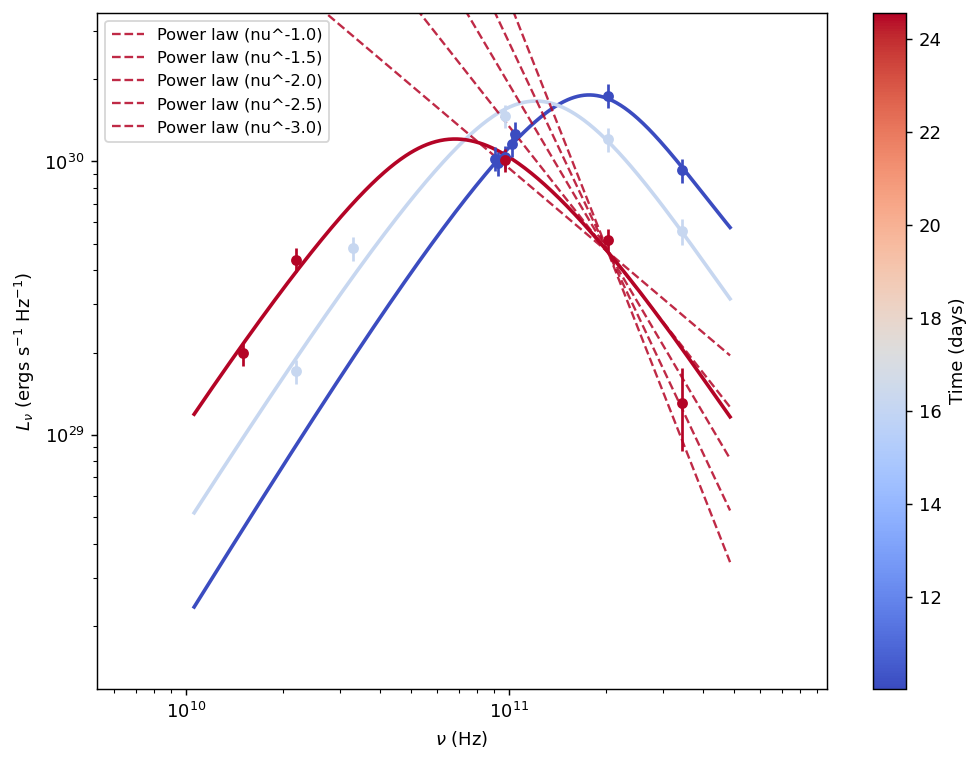
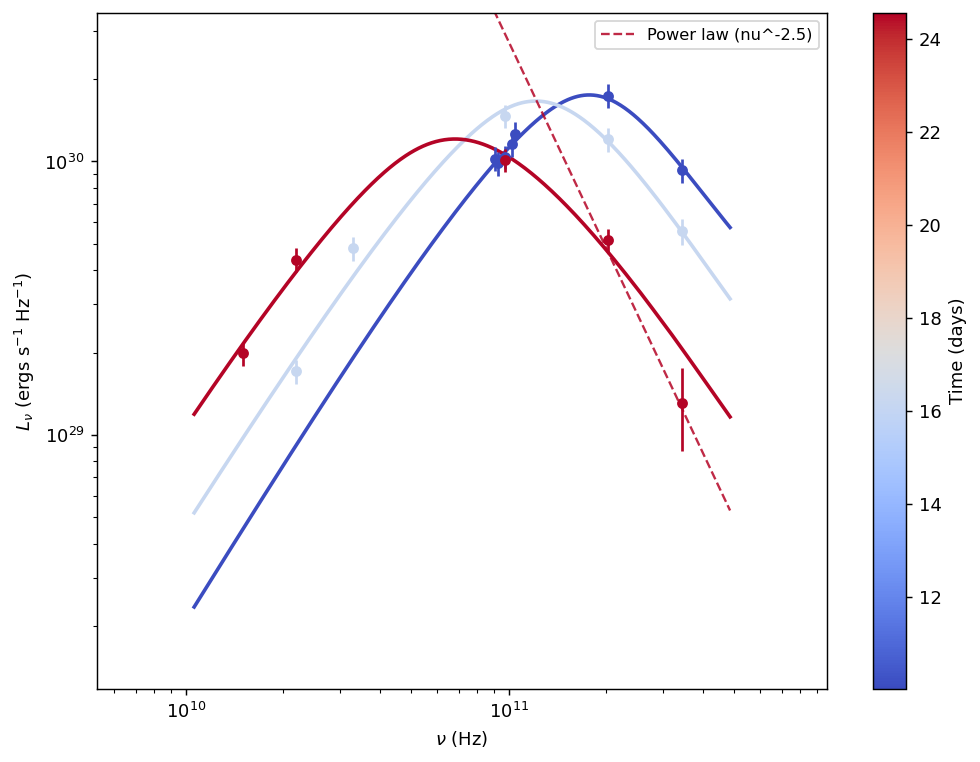
looking at specific slopes

diff --git a/runSampler.py b/runSampler.py
@@ -1409,7 +1409,8 @@ def make_sed_collage(cfg, fixed):
 # at the frequency of the second-to-last (by frequency) SED point. Purely
 # a visual comparison aid -- add more (source, epoch) entries as needed. ---
 OVERLAY_REFERENCE_SLOPES = {
-    "dbl": {3: [-1.0, -1.5, -2.0, -2.5, -3.0]},
+    #"dbl": {3: [-1.0, -1.5, -2.0, -2.5, -3.0]},
+    "dbl": {3: [-2.5]},
 }
 
 
